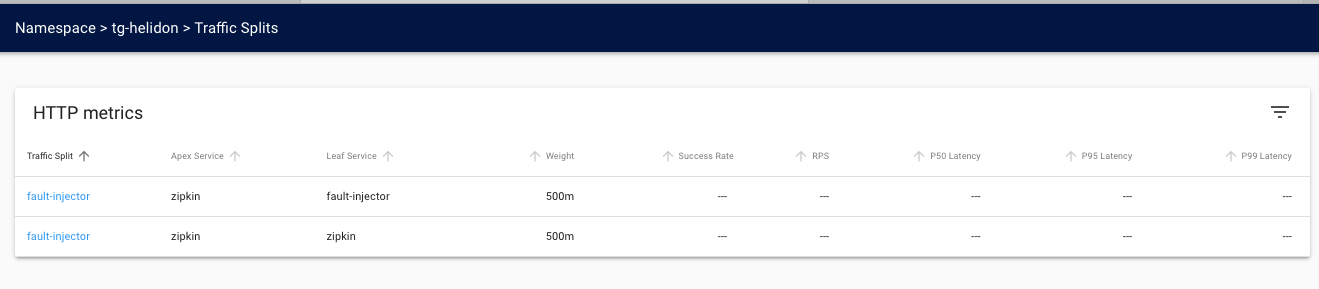
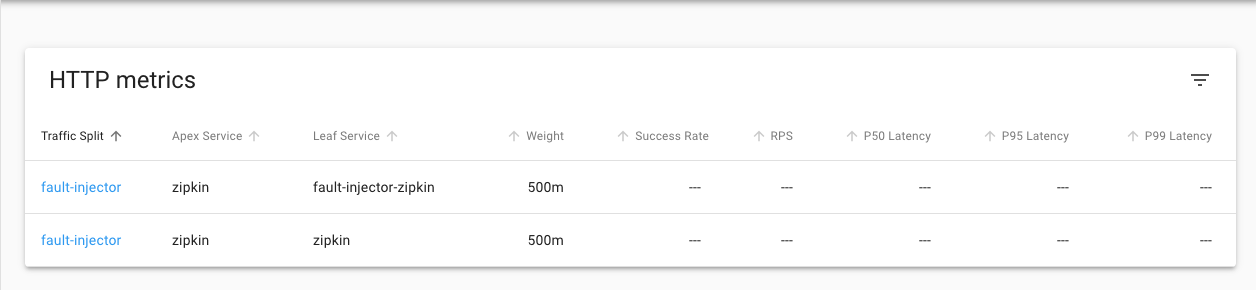
tidying up the chaos traffic split section

diff --git a/AppDev/helidon-k8s/Kubernetes/service-mesh/Linkerd-exploring-traffic-splits.md b/AppDev/helidon-k8s/Kubernetes/service-mesh/Linkerd-exploring-traffic-splits.md
@@ -42,28 +42,76 @@ This module was written using the information in the [Linkerd fault injection pa
 
 We're going to use a traffic split to send some messages to a fake zipkin endpoint which will generate errors, this will let us see how well our micro-services handle the situation where zipkin becomes unavailable.
 
+### Setup the fault injection service
+
+Switch to the service mesh directory
+
+- In the OCI Cloud Shell type :
+  - `cd $HOME/helidon-kubernetes/service-mesh`
+
 Let's setup the fault injector, this is basically a simple nginx based web server that returns a HTTP 504 error status (Gateway timeout) each time it's accessed.
 
-Setup the config map - if you look at it you'll see it basically defines a config rule for nginx that will always return a 504 error
-kubectl apply -f nginx-fault-injector-configmap.yaml
+First setup the config map for nginx, it defines a config rule for nginx that will always return a 504 error
 
-start a service for it
+```
+apiVersion: v1
+kind: ConfigMap
+metadata:
+  name: fault-injector-configmap
+data:
+ nginx.conf: |-
+    events {}
+    http {
+        server {
+          listen 80;
+            location / {
+                return 504;
+            }
+        }
+    }
+```
 
-kubectl apply -f fault-injector-service.yaml
+- In the OCI Cloud shell type
+  - `kubectl apply -f nginx-fault-injector-configmap.yaml`
+
+```
+configmap/fault-injector-configmap created
+```
+
+Next let's start a service for the nginx instance (feel free to  look at the contents of the yaml, it's a standard service definition, but it maps the incomming port 9411 to port 80 in the deployments)
+
+- In the OCI Cloud shell type
+  - `kubectl apply -f fault-injector-service.yaml`
+
+```  
 service/fault-injector created
+```
 
-start the nginx fault injector deployment
-kubectl apply -f nginx-fault-injector-deployment.yaml 
+Start the nginx fault injector deployment
 
-and for testing purposes an ingress
+- In the OCI Cloud shell type
+  - `kubectl apply -f nginx-fault-injector-deployment.yaml`
 
-kubectl apply -f fault-injector-ingress.yaml 
+```
+deployment.apps/fault-injector created
+```
+
+For testing purposes we'll run an ingress, normally you wouldn't need to do this, but I want to show that the service does indeed return 504 errors
+
+- In the OCI Cloud shell type
+  - `kubectl apply -f fault-injector-ingress.yaml`
+
+```
 ingress.extensions/fault-injector created
+```
 
+Test the fault injection returns the right value
 
-test the fault injection returns the right value
+- In the OCI Cloud shell type (replace <external IP> with **your** ingress controller IP address)
 
-curl -i  http://<external IP>/fault
+  - `curl -i  http://<external IP>/fault`
+
+```
 Handling connection for 9411
 HTTP/1.1 504 Gateway Time-out
 Server: nginx/1.19.0
@@ -79,24 +127,7 @@ Connection: keep-alive
 <hr><center>nginx/1.19.0</center>
 </body>
 </html>
-
-OK, the 504 / Gateway Time-out response is generated as we expect.
-
-
-So far all we've done is to create a service that generates 504 errors, we need to look at the traffic split to redirect some of the traffic for the original service to this new one.
-
-Let's look at the traffic split
-
-this is a 50/50 split between fault and working, normally you would to a lower number, especially in a production environment if you wern't sure what would happen, but here we want to be confident we'll see some "failures"  generated.
-
-OK, now we know what it is let's deploy it, note that the traffic split is what's known as a custom resource definition, basically is a mechanism to extend the core Kuberntes capabilities.
-
-kubectl apply -f  fault-injector-traffic-split.yaml
-trafficsplit.split.smi-spec.io/fault-injector-split created
-
-Let's look at the traffic split
-
-In your web browser go to `https://<external IP address>`
+```
 
 <details><summary><b>If you need to remind yourself of the ingress controller external IP address</b></summary>
 <p>
@@ -115,15 +146,61 @@ look at the `ingress-nginx-nginx-ingress-controller` row, IP address inthe `EXTE
 ---
 </p></details>
 
-- Click the namespaces
+OK, the 504 / Gateway Time-out response is generated as we expect.
 
-- Click **your namespace** (tg-helidon in this case, but yours should be different)
+### Deploy the traffic split
 
-- On the left click `Traffic Splits`
+So far all we've done is to create a service that generates 504 errors, we need to look at the traffic split to redirect some of the traffic for the original service to this new one.
+
+Let's look at the traffic split
+
+```
+apiVersion: split.smi-spec.io/v1alpha1
+kind: TrafficSplit
+metadata:
+  name: fault-injector
+spec:
+  service: zipkin
+  backends:
+  - service: zipkin
+    weight: 500m
+  - service: fault-injector-zipkin
+    weight: 500m
+```
+
+Looking at the spec the split is deployed on the service `zipkin` (This is known as the `Apex Service` as it's the actual top level service) The traffic split talks to two backend services (also known as `Leaf services`) the real `zipkin` service and also the `fault-injector-zipkin` service. The weight indicates how many thousandths of the service should go to each backend, so in this example we have a 50/50 split between fault and working, normally you would have a lower number of requests being sent to the fault-injector (after all, if it does break things you don;t want your end customers to be impacted, especially in a production environment if you wern't sure what would happen, but here we want to be confident we'll see some "failures"  generated.
+
+OK, now we know what it is let's deploy it, note that the traffic split is what's known as a custom resource definition, basically is a mechanism to extend the core Kuberntes capabilities.
+
+- In the OCI Cloud shell type 
+  - `kubectl apply -f  fault-injector-traffic-split.yaml`
+
+```
+trafficsplit.split.smi-spec.io/fault-injector-split created
+```
+
+Let's look at the traffic split in the linkerd UI
+
+- In your web browser go to `https://<external IP address>`
+
+If needed accept that it's a self signed certificate and login as `admin` with password you set when installing linkerd
+
+
+- On the upper left click the namespaces dropdown (It may display `DEFAULT` or another namespace name
+
+![](images/Linkerd-namespaces-menu.png)
+
+- Click **your namespace** in the list (tg-helidon in my case, but yours should be different)
+
+- On the left menu in the configuration section click `Traffic Splits`
+
+![](images/Linkerd-traffic-splits-menu-option.png)
+
+You will be shown the traffic splits page
 
 ![](images/Linkerd-traffic-namespace-traffic-splits-list.png)
 
-This Shows the traffic split
+This Shows the traffic split details
 
 Click on the name of the traffic-split `fault-injector`
 
@@ -147,23 +224,23 @@ strict-transport-security: max-age=15724800; includeSubDomains
 
 Well the good news is that on this occasion we got a result, make a few more requests, then return to your web browser (hopefully you left it on the details page of the fault-injection traffic split)
 
-Below is what **I** saw, and it seems that **in this case** the random number generator means that the few requests I made to the traffic split that was connected to the origional zipkin servicehad all been passed to zipkin which had suceeded.
+Below is what **I** saw, and it seems that **in this case** the random number generator means that the few requests I made to the traffic split that was connected to the origional zipkin service had all been passed to fault-injector-zipkin which of course failed them all.
 
-![](images/Linkerd-traffic-split-fault-injection-details-no-faults.png)
+![](images/Linkerd-traffic-split-fault-injection-details-all-faults.png)
 
-**Yours may be different**
+**Yours may be different** You may see a partial split where some succeeded and some failed (so some going to the `zipkin` and some going to `fault-injector-zipkin`), of you may see them all succeeding (I.e. all going to the `zipkin` service) as the traffic split works randomly it's impossible to predict exactly
 
-In this case you can see that requests to the fault-injection traffic split had a 100% success rate, and were passed to the zipkin service which had a 100% success rate.
+In this case you can see that requests to the fault-injection traffic split had a 0% success rate, and were passed to the failt-injector-zipkin service which had a 0% success rate.
 
-So I can show you what it looks like if there are failures I made a few more curl requests and came back to the page
+So I can show you what it looks like if there are only some failures I made a few more curl requests and came back to the page
 
 ![](images/Linkerd-traffic-split-fault-injection-details-some-faults.png)
 
 **Again yours will almost certainly be different**
 
-Here we see that 53% of the requests to the traffic split had failed (the bar at the top of the service also indicates the failure rate) and that 100% of the requests to zipkin had succeeded, while 100% of the requests to the fault injector service had failed. In this case given the fault-injector service will always fail this is what we would expect, but as you'll see later when we look at canary deployments it's not a pure 100% success or failure in all cases.
+Here we see that 66.67% of the requests to the traffic split had failed (the bar at the top of the service also indicates the failure rate) and that 100% of the requests to zipkin had succeeded, while 100% of the requests to the fault-injector-zipkin service had failed. In this case given the fault-injector-zipkin service will always fail this is what we would expect, but as you'll see later when we look at canary deployments it's not a pure 100% success or failure in all cases.
 
-Of course this is useful, but in this case all it's telling us is that the `zipkin` service always works and the `fault-injector` service always fails. What does that mean for the requests to the zipkin service.
+Of course this is useful, but in this case all it's telling us is that the `zipkin` service always works and the `fault-injector-zipkin` service always fails. What does that mean for the requests to the zipkin service.
 
 - Click on `Routes` on the left menu
 
@@ -188,7 +265,7 @@ curl -i -k  -u jack:password https://<external ip>/store/stocklevel
 
 (you may have to scroll down a bit to see the deployment details)
 
-We can see that in **this case** 50% of the requests from the storefront deployment to the zipkin deployment have failed, the same is true for the stockmanager. We know that out traffic split is doing what we expected and that we are failing the requests and potentially causing chaos ! (If you feel like it please feel free to do a Dr Evil or Bond villan manic laugh at this point)
+We can see that **in this case** 50% of the requests from the storefront deployment to the zipkin deployment have failed, the same is true for the stockmanager. We know that our traffic split is doing what we expected and that we are failing the requests and potentially causing chaos ! (If you feel like it please feel free to do a Dr Evil or Bond villan manic laugh at this point)
 
 This is great, but how is our service handling it ?
 
@@ -200,22 +277,36 @@ Unless something very unexpected from the point of view of the lab writer has ha
 
 And you have not had any HTTP errors, this is a pretty good indicator that our service is continuing to work, out little experiment in chaos engineering has given us useful information !
 
+<details><summary><b>What's happening in the pod itself ?</b></summary>
+<p>
 
-# Do details section here
+Wile the service itself is still delivering results fine it's possible that there are useful bit's of information in the logs that might help improve reliability.
 
-Let's look at the pods log, 
+First we need the pod name
 
-kubectl get pods
+- In the OCI Cloud shell type 
+
+ - `kubectl get pods`
+
+```
 NAME                             READY   STATUS    RESTARTS   AGE
 fault-injector-b5bf94d48-f7wbq   2/2     Running   0          55m
 stockmanager-7945b54576-9f7q7    2/2     Running   0          69m
 storefront-7667fc5fdc-5zwbr      2/2     Running   0          69m
 zipkin-7db7558998-c5b5j          2/2     Running   0          69m
+```
 
-kubectl logs stockmanager-7945b54576-9f7q7 stockmanager
+Now we want to get the logs of the pod itself, in **my** case that's `stockmanager-7945b54576-9f7q7`, but of course yours will be different.
 
-Note that as the pod now contains multiple containers due to linkerd injecting them automatically we need to specify the container we want the logs for, as it's names in the deployment. In this case that's the stockmanager container.
+Let's use kubectl to get the logs. Note that as the pod now contains multiple containers due to linkerd injecting them automatically we need to specify the container we want the logs for, as it's names in the deployment. In this case that's the stockmanager container.
 
+
+- In the OCI Cloud Shell type the following, replace the pod name with your stockmanager pod name :
+
+  - `kubectl logs stockmanager-7945b54576-9f7q7 stockmanager`
+
+```
+... Loads of stuff ....
 2020.06.03 18:10:01 INFO com.oracle.labs.helidon.stockmanager.resources.StockResource Thread[helidon-4,5,server]: Getting all stock items
 Hibernate: 
     SELECT
@@ -250,18 +341,31 @@ Hibernate:
         StockLevel 
     WHERE
         departmentName='Tims Shop'
+... Loads of stuff ....
+
 ```
-        
-It will also let us see how the real zipkin service handles the situation where some of the trace updates it's sent don't make it.
 
-For now let's remove the Traffic split and the fault-injector components we created (just so we manage our resources
+In this case we can find (within a lot of other stuff) the error log details when the stockmanager tried to talk to the zipkin service. We can see that zipkin is dropping the spans.
 
-bash stop-fault-injection.sh
+**If you cannot find this** do not worry, there is a **lot** of log data.
+
+---
+
+</p></details>
+
+
+For now let's remove the Traffic split and the fault-injector components we created.
+
+- In the OCI Cloud shell type
+  - `bash stop-fault-injection.sh`
+
+```
 trafficsplit.split.smi-spec.io "fault-injector" deleted
 ingress.extensions "fault-injector" deleted
 service "fault-injector" deleted
 deployment.apps "fault-injector" deleted
 configmap "fault-injector-configmap" deleted
+```
 
 ## Now let's look at how we can use the service mesh to do a canary deployment
 
